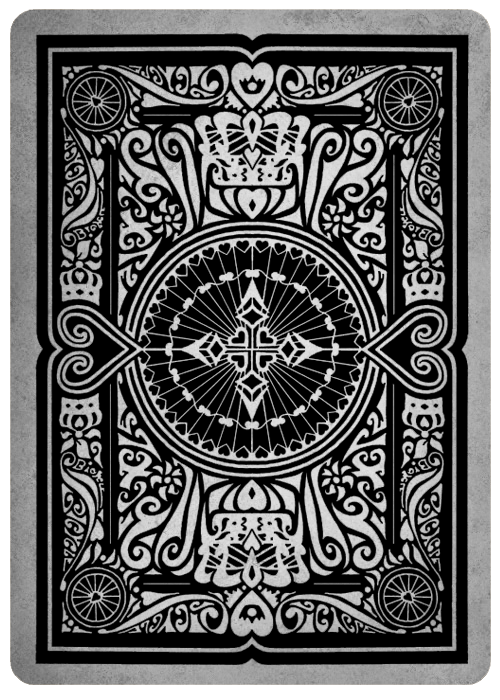
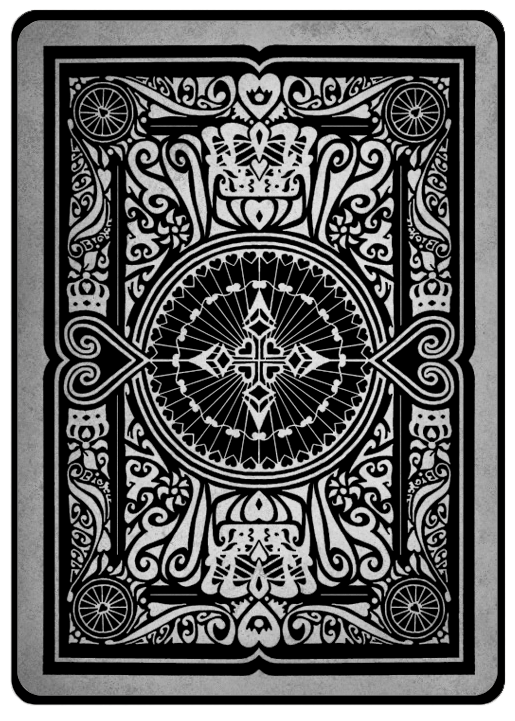
Made the card backs and deck prettier

diff --git a/style.css b/style.css
@@ -64,6 +64,11 @@ span.name {
     width: auto;
 }
 
+#deck_image {
+    height: 140px;
+    width: auto;
+}
+
 #trump {
     transform: rotate(90deg);
     position: relative;
@@ -93,8 +98,8 @@ span.name {
 #battlefield {
     display: flex;
     width: 100%;
-    margin-top: 20px;
-    margin-bottom: 20px;
+    margin-top: 50px;
+    margin-bottom: 50px;
     justify-content: center;
 }
 

diff --git a/index.html b/index.html
@@ -39,7 +39,7 @@
     </div>
     <div id="table">
         <div id="deck">
-            <img class="card" src="img/back.png" />
+            <img id="deck_image" src="img/deck.png" />
             <img id="trump" class="card" src="img/8_of_hearts.png" />
         </div>
         <div id="battlefield">
